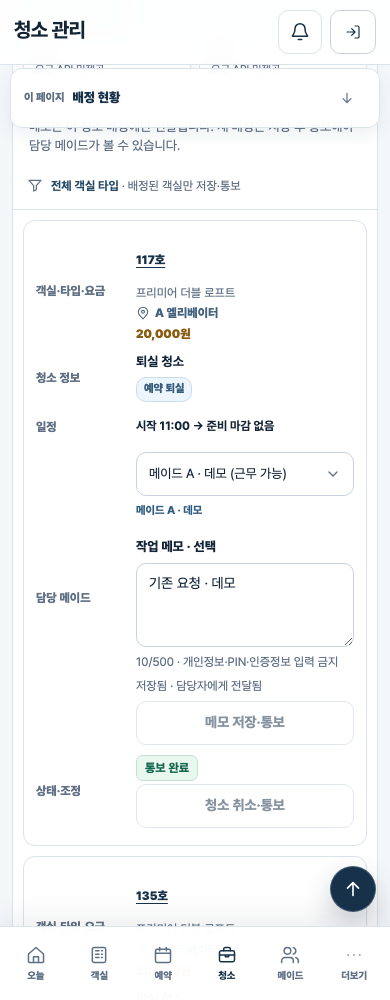
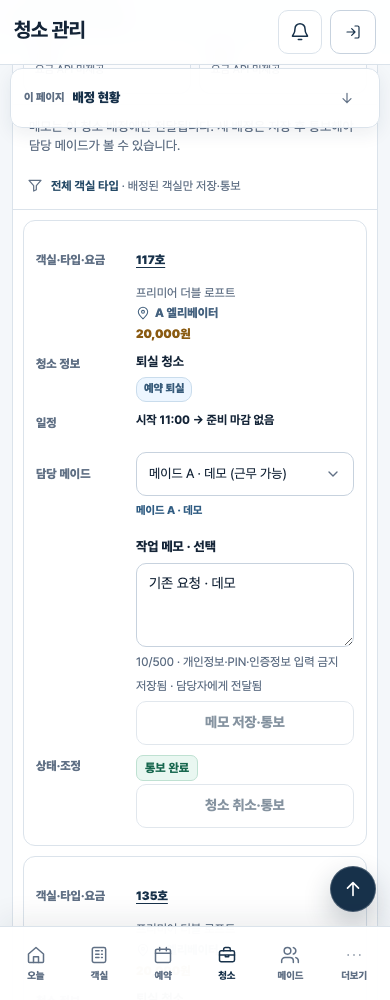
fix: 객실 담당 제목과 내용을 정렬하라

diff --git a/WIREFRAME/index.html b/WIREFRAME/index.html
@@ -1768,8 +1768,9 @@
       .assignment-table, .assignment-table tbody, .assignment-table tr, .assignment-table td { display:block; width:100%; min-width:0; }
       .assignment-table thead { display:none; }
       .assignment-table tr { margin-bottom:10px; padding:12px; border:1px solid var(--line); border-radius:12px; background:#fff; }
-      .assignment-table td { display:grid; grid-template-columns:92px minmax(0,1fr); gap:8px; align-items:center; min-height:40px; padding:5px 0; border:0; }
-      .assignment-table td::before { content:attr(data-label); color:var(--muted); font-size:12px; font-weight:750; }
+      .assignment-table td { display:grid; grid-template-columns:92px minmax(0,1fr); gap:8px; align-items:start; min-height:40px; padding:5px 0; border:0; }
+      .assignment-table td::before { content:attr(data-label); align-self:start; padding-top:2px; color:var(--muted); font-size:12px; font-weight:750; line-height:18px; }
+      .assignment-table td[data-label="객실·타입·요금"]::before, .assignment-table td[data-label="담당 메이드"]::before { padding-top:13px; }
       .assignment-foot { align-items:stretch; flex-direction:column; }
       .assignment-foot .btn { width:100%; }
       .assignment-exception { grid-template-columns:62px minmax(0,1fr); }
@@ -2207,8 +2208,9 @@
       .assignment-table, .assignment-table tbody, .assignment-table tr, .assignment-table td { display:block; width:100%; min-width:0; }
       .assignment-table thead { display:none; }
       .assignment-table tr { margin-bottom:10px; padding:12px; border:1px solid var(--line); border-radius:12px; background:#fff; }
-      .assignment-table td { display:grid; grid-template-columns:92px minmax(0,1fr); gap:8px; align-items:center; min-height:40px; padding:5px 0; border:0; }
-      .assignment-table td::before { content:attr(data-label); color:var(--muted); font-size:12px; font-weight:750; }
+      .assignment-table td { display:grid; grid-template-columns:92px minmax(0,1fr); gap:8px; align-items:start; min-height:40px; padding:5px 0; border:0; }
+      .assignment-table td::before { content:attr(data-label); align-self:start; padding-top:2px; color:var(--muted); font-size:12px; font-weight:750; line-height:18px; }
+      .assignment-table td[data-label="객실·타입·요금"]::before, .assignment-table td[data-label="담당 메이드"]::before { padding-top:13px; }
       .assignment-table .assignment-room-number-link { display:inline-flex; align-items:center; width:max-content; min-height:44px; padding:7px 0; }
       .maid-order-assignee { grid-template-columns:1fr; gap:4px; }
 

diff --git a/WIREFRAME/QA.md b/WIREFRAME/QA.md
@@ -2,11 +2,11 @@
 
 ## 2026-11-02 · 객실별 담당 작업 메모 (#292)
 
-검증 흐름: 관리자 객실별 담당 → 객실별 메모 작성/저장/삭제 → 초안 저장·통보 → 메이드 본인 카드·업무 상세 → 배정 이력/충돌 확인. 기존 5열·담당 선택·취소·업무 펼침 목적을 유지한다.
+검증 흐름: 관리자 객실별 담당 → 객실별 메모 작성/저장/삭제 → 초안 저장·통보 → 메이드 본인 카드·업무 상세 → 배정 이력/충돌 확인. 기존 5열·담당 선택·취소·업무 펼침 목적을 유지한다. 사용자 추가 지적에 따라 모바일 왼쪽 제목을 각 오른쪽 내용의 첫 줄/첫 컨트롤에 맞추고, 담당 메모 높이와 무관하게 상단 정렬한다.
 
 - Browser plugin not available → Playwright Chromium 151.0.7922.34, 로컬 `http://127.0.0.1:4187`. `scripts/check-assignment-instruction-memo.mjs`는 모든 업무 API 요청을 합성 데이터로 격리한다. 실제 운영 계정·예약·업무 쓰기는 하지 않았다.
 - 전용 회귀: 기존 메모 읽기, 미수정 필드 생략/빈값 null, 여러 객실 초안 분리, 메모만 전체 저장·통보, 개별 저장, 미통보 초안 후 통보, 400 입력 유지, 409 최신 메모 비교/재적용, 응답 유실 동일 body/key 재확인, 응답 필드 누락 성공 거부·재조회, 500 UTF-16 허용/501 거부, HTML 주입 방지, 줄바꿈·원문 보존, 날짜 전환 초안 폐기, 시작한 작업 잠금, 메이드 본인 읽기/쓰기 차단을 확인했다. 독립 데모에서 실제 로그인·담당 선택·저장·수정·삭제·메이드 로그인 후 표시도 확인했다.
-- 관리자·메이드 360/390/768/1440px 가로 넘침 없음, 메모 저장 44px 이상·접근성 이름, 입력 중 포커스 유지, Tab/Escape·충돌 모달 포커스 가둠, 배정 이력·브라우저 Back, 메모의 URL/스토리지/history 비저장을 확인했다. 앱 console warning/error·페이지 예외 0건이다. 의도한 실패 HTTP/응답 유실의 브라우저 네트워크 오류는 제외했다.
+- 관리자·메이드 360/390/768/1440px 가로 넘침 없음, 메모 저장 44px 이상·접근성 이름, 모바일 제목/첫 내용의 정렬, 입력 중 포커스 유지, Tab/Escape·충돌 모달 포커스 가둠, 배정 이력·브라우저 Back, 메모의 URL/스토리지/history 비저장을 확인했다. 앱 console warning/error·페이지 예외 0건이다. 의도한 실패 HTTP/응답 유실의 브라우저 네트워크 오류는 제외했다.
 - 같은 역할·날짜·합성 객실·390/1440px의 `QA/screenshots/assignment-memo-compare-{admin,maid}-{before,after}-*.png`를 나란히 비교했다. 담당 선택 아래 입력만 추가하고 기존 열·내비게이션·행 버튼 목적은 유지됐다. 대표 화면: `assignment-memo-admin-390.png`, `assignment-memo-admin-1440.png`, `assignment-memo-maid-390.png`, `assignment-memo-maid-1440.png`, 운영 미제공 상태 `assignment-memo-unavailable-390.png`.
 - `scripts/check-cleaning-assignment-continuity.mjs`의 미배정/랜덤 제안·부분 실패·재시도·추가 통보·인라인 담당 변경 CAS·시작 작업 차단·4개 폭 회귀가 통과했다. 기존 전체 `check-cleaning-workflow.mjs`는 오늘 화면 투숙 중 집계의 fixture가 조회 중 상태로 남아 197행에서 timeout했다. 변경 전 HTML에서도 같은 실패가 재현됐으므로 전체 통과로 기록하지 않는다. 이 실패 이전의 청소 시작·사진·검수 흐름만 실행됐다.
 - `node scripts/check-workspace.mjs`, `npm run contract:check`, `npm run contract:test-diff`, dev 기준 `npm run contract:diff`, `git diff --check` 통과. CI·배포 SHA와 에셋 일치는 PR 기록에 남긴다.
